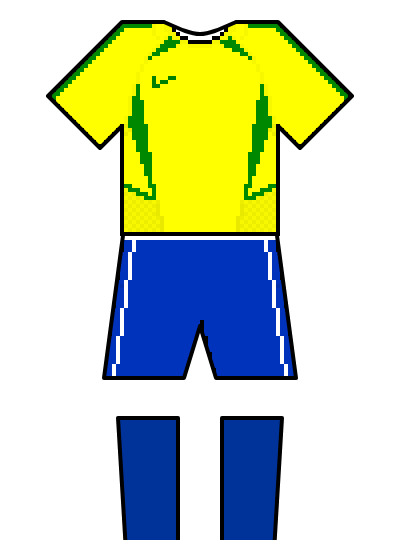
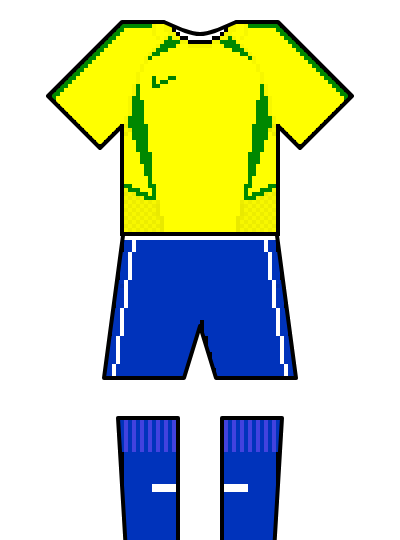
Publish site from 44b3631a1ed34df7a81ddb6965e4d1e0adde0f2c 44b3631a1ed34df7a81ddb6965e4d1e0adde0f2c

Changed region(s): [[0.54, 0.7704, 0.72, 1.0], [0.3, 0.7704, 0.45, 1.0]]

diff --git a/data/kits.js b/data/kits.js
@@ -129,7 +129,7 @@ window.HALFTIME_KITS = [
     matches: ["1950-world-cup-final"],
     coloursSource: "Wikipedia, \"Uruguay v Brazil (1950 FIFA World Cup)\" (revision 1370476799), CC BY-SA 4.0",
     coloursUrl: "https://en.wikipedia.org/w/index.php?title=Uruguay_v_Brazil_(1950_FIFA_World_Cup)&oldid=1370476799",
-    illustration: { file: "brazil-1950.png", credit: "Drawn after the kit shown in Wikipedia’s \"Uruguay v Brazil (1950 FIFA World Cup)\" article. Pattern pictures from Wikimedia Commons: Kit left arm borderonwhite.png (CC BY-SA 3.0); Kit body bra1949h.png (CC BY-SA 4.0, N); Kit right arm borderonwhite.png (CC BY-SA 3.0). Outline: Wikimedia Commons kit template drawings." }
+    illustration: { file: "brazil-1950.png", credit: "Drawn after the kit shown in Wikipedia’s \"Uruguay v Brazil (1950 FIFA World Cup)\" article. Pattern pictures from Wikimedia Commons: Kit left arm borderonwhite.png (CC BY-SA 3.0); Kit body bra1949h.png (CC BY-SA 4.0, N); Kit right arm borderonwhite.png (CC BY-SA 3.0); Kit socks brasil1942.png (CC BY-SA 3.0, antonio). Outline: Wikimedia Commons kit template drawings." }
   },
   {
     id: "uruguay-1950",
@@ -219,7 +219,7 @@ window.HALFTIME_KITS = [
     matches: ["1962-world-cup-final"],
     coloursSource: "Wikipedia, \"1962 FIFA World Cup final\" (revision 1370476934), CC BY-SA 4.0",
     coloursUrl: "https://en.wikipedia.org/w/index.php?title=1962_FIFA_World_Cup_final&oldid=1370476934",
-    illustration: { file: "brazil-1962.png", credit: "Drawn after the kit shown in Wikipedia’s \"1962 FIFA World Cup final\" article. Pattern pictures from Wikimedia Commons: Kit left arm greenborder.png (CC BY-SA 3.0, No machine-readable author provided.); Kit body collargreen.png (Public domain, Dre.comandante); Kit right arm greenborder.png (CC BY-SA 3.0, No machine-readable author provided.); Kit shorts whitesides.png (CC BY-SA 3.0). Outline: Wikimedia Commons kit template drawings." }
+    illustration: { file: "brazil-1962.png", credit: "Drawn after the kit shown in Wikipedia’s \"1962 FIFA World Cup final\" article. Pattern pictures from Wikimedia Commons: Kit left arm greenborder.png (CC BY-SA 3.0, No machine-readable author provided.); Kit body collargreen.png (Public domain, Dre.comandante); Kit right arm greenborder.png (CC BY-SA 3.0, No machine-readable author provided.); Kit shorts whitesides.png (CC BY-SA 3.0); Kit socks brasil1962h.png (CC BY-SA 4.0, Fma12). Outline: Wikimedia Commons kit template drawings." }
   },
   {
     id: "czechoslovakia-1962",
@@ -429,7 +429,7 @@ window.HALFTIME_KITS = [
     matches: ["1990-world-cup-final"],
     coloursSource: "Wikipedia, \"1990 FIFA World Cup final\" (revision 1376676631), CC BY-SA 4.0",
     coloursUrl: "https://en.wikipedia.org/w/index.php?title=1990_FIFA_World_Cup_final&oldid=1376676631",
-    illustration: { file: "argentina-1990.png", credit: "Drawn after the kit shown in Wikipedia’s \"1990 FIFA World Cup final\" article. Pattern pictures from Wikimedia Commons: Kit left arm argentina1990a.png (CC BY-SA 3.0, Zotteteen1); Kit body argentina1990a.png (CC BY-SA 3.0, Zotteteen1); Kit right arm argentina1990a.png (CC BY-SA 3.0, Zotteteen1); Kit socks color 3 stripes white.png (Public domain, Dragases). Outline: Wikimedia Commons kit template drawings." }
+    illustration: { file: "argentina-1990.png", credit: "Drawn after the kit shown in Wikipedia’s \"1990 FIFA World Cup final\" article. Pattern pictures from Wikimedia Commons: Kit left arm argentina1990a.png (CC BY-SA 3.0, Zotteteen1); Kit body argentina1990a.png (CC BY-SA 3.0, Zotteteen1); Kit right arm argentina1990a.png (CC BY-SA 3.0, Zotteteen1); Kit shorts argentina1990a.png (CC BY-SA 3.0, Zotteteen1); Kit socks color 3 stripes white.png (Public domain, Dragases). Outline: Wikimedia Commons kit template drawings." }
   },
   {
     id: "west-germany-1990",
@@ -519,7 +519,7 @@ window.HALFTIME_KITS = [
     matches: ["2002-world-cup-final"],
     coloursSource: "Wikipedia, \"2002 FIFA World Cup final\" (revision 1375281798), CC BY-SA 4.0",
     coloursUrl: "https://en.wikipedia.org/w/index.php?title=2002_FIFA_World_Cup_final&oldid=1375281798",
-    illustration: { file: "brazil-2002.png", credit: "Drawn after the kit shown in Wikipedia’s \"2002 FIFA World Cup final\" article. Pattern pictures from Wikimedia Commons: Kit left arm bra02h.png (CC0, Irypi); Kit body bra02h.png (Public domain, Bruno-ban); Kit right arm bra02h.png (CC0, Irypi); Kit shorts bra02h.png (CC BY-SA 4.0, NeoRibeiro). Outline: Wikimedia Commons kit template drawings." }
+    illustration: { file: "brazil-2002.png", credit: "Drawn after the kit shown in Wikipedia’s \"2002 FIFA World Cup final\" article. Pattern pictures from Wikimedia Commons: Kit left arm bra02h.png (CC0, Irypi); Kit body bra02h.png (Public domain, Bruno-ban); Kit right arm bra02h.png (CC0, Irypi); Kit shorts bra02h.png (CC BY-SA 4.0, NeoRibeiro); Kit socks bra02al.png (CC0, Irypixel). Outline: Wikimedia Commons kit template drawings." }
   },
   {
     id: "germany-2002",
